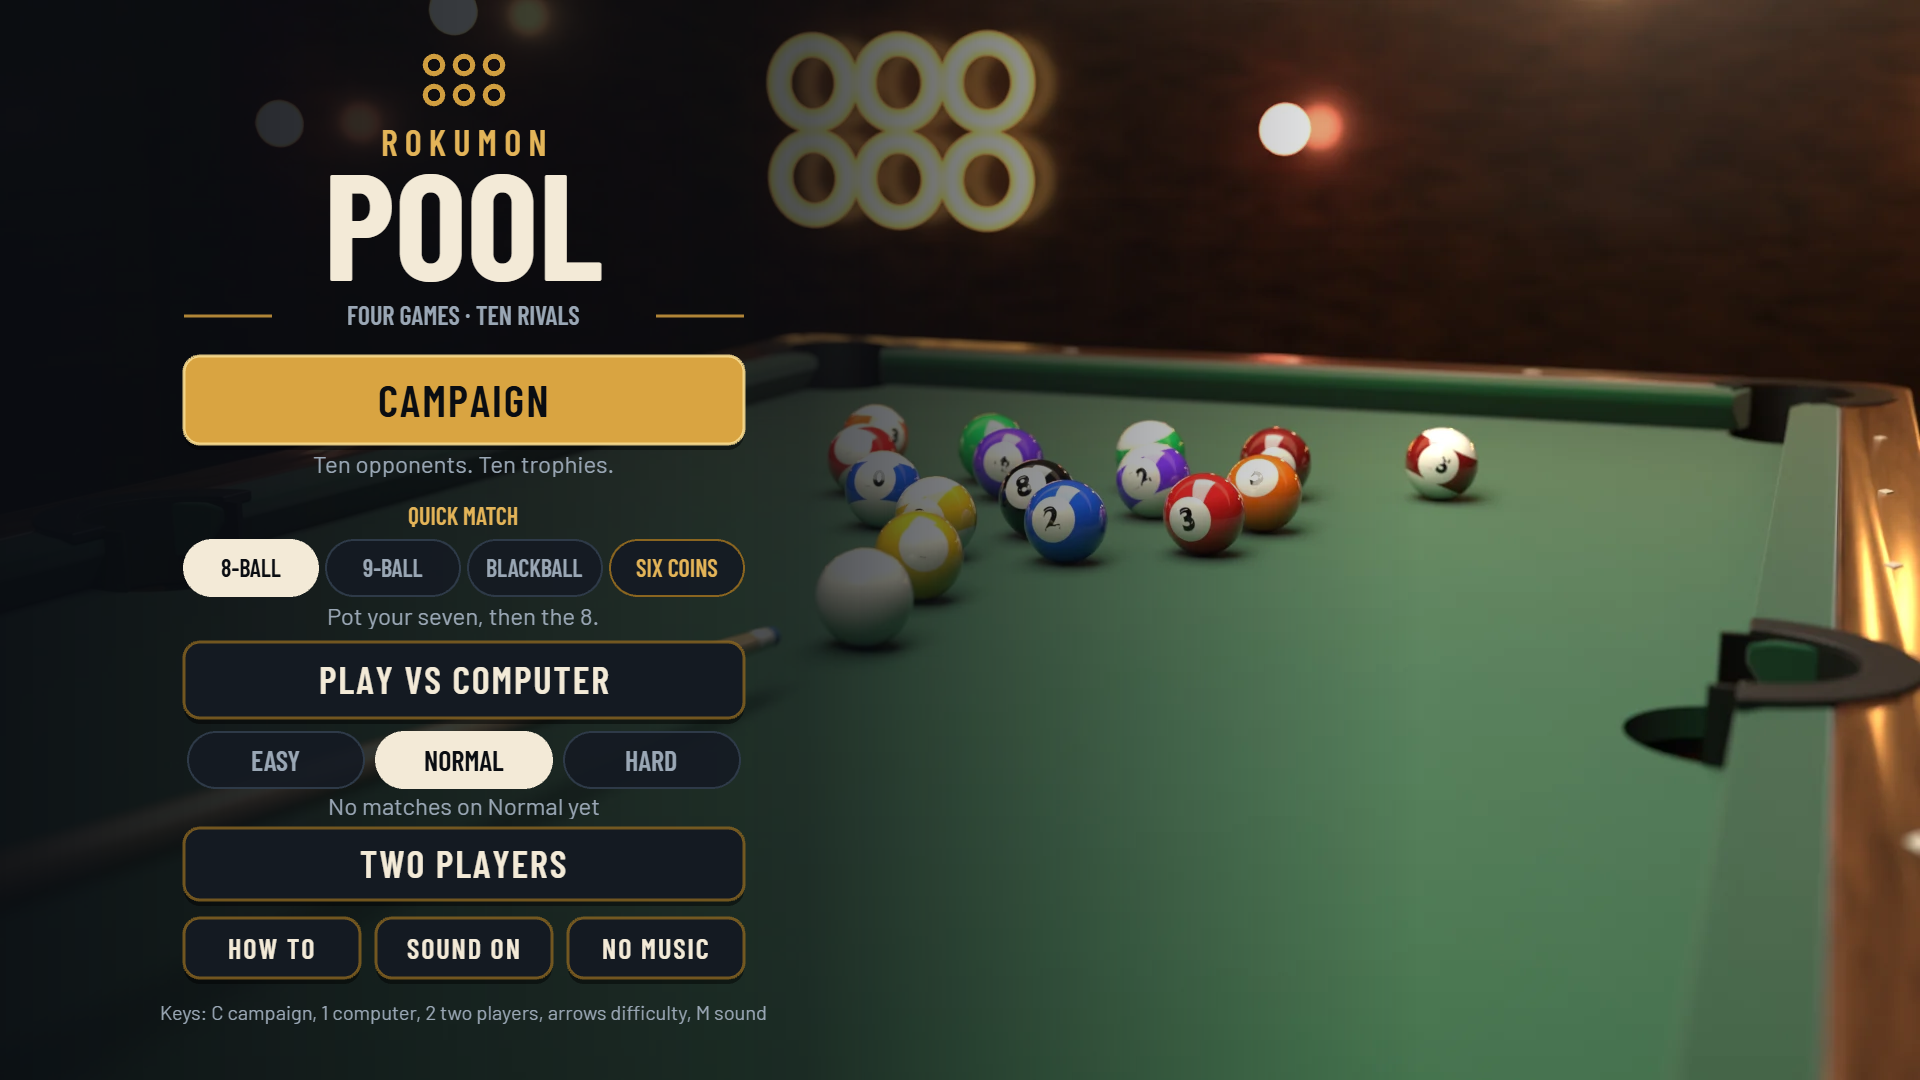
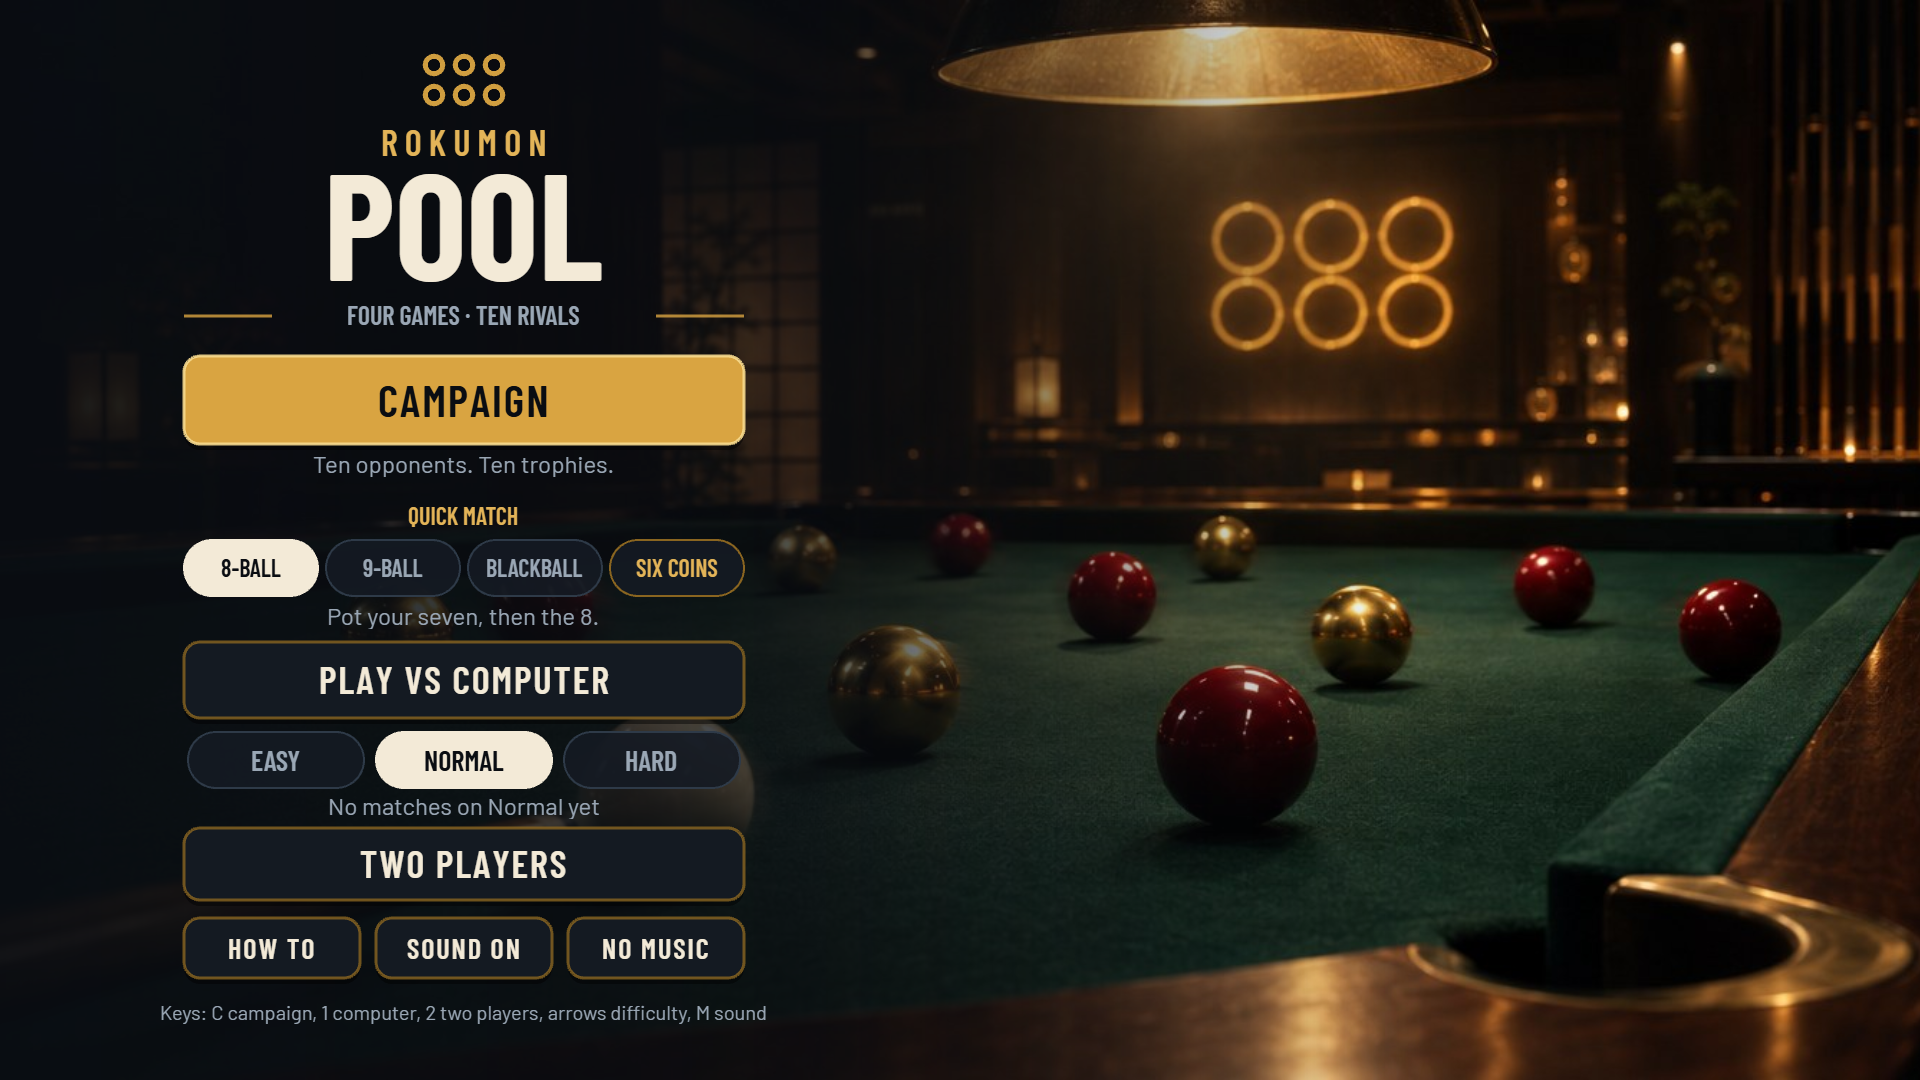
0.10.1: Higgsfield key art for the title screen and the hub
- Title-screen backdrop is now art/higgsfield/hero.png (as src/art/keyart.jpg).
- New hub cover and hero composed by scripts/make-banners.mjs, which gains
  plain (text-free) jobs and JPEG output.
- The Blender renders stay and still provide the in-game table.

diff --git a/src/systems/audio.js b/src/systems/audio.js
@@ -144,7 +144,83 @@ function syncMusic() {
   else music.pause();
 }
 
+// Charge-up: a live tone that follows the power gauge. It is built from two
+// detuned oscillators, so it has body, and a little filtered noise that opens
+// up with power, like a spring being wound. Pitch and loudness rise together
+// with the pull; a soft tick marks each quarter of the bar. It is generated,
+// not recorded, because a recorded clip cannot follow a handle the player is
+// moving by hand.
+let charge = null;
+let chargeTick = -1;
+
+function chargeStart() {
+  const c = ensure();
+  if (!c || muted || charge) return;
+  const t = c.currentTime;
+  const out = c.createGain();
+  out.gain.setValueAtTime(0.0001, t);
+  const lowpass = c.createBiquadFilter();
+  lowpass.type = "lowpass";
+  lowpass.frequency.value = 500;
+  lowpass.Q.value = 1.4;
+  const a = c.createOscillator();
+  const b = c.createOscillator();
+  a.type = "sawtooth";
+  b.type = "triangle";
+  a.connect(lowpass);
+  b.connect(lowpass);
+  const hiss = c.createBufferSource();
+  hiss.buffer = getNoise(c);
+  hiss.loop = true;
+  const hissFilter = c.createBiquadFilter();
+  hissFilter.type = "bandpass";
+  hissFilter.frequency.value = 1800;
+  hissFilter.Q.value = 0.7;
+  const hissGain = c.createGain();
+  hissGain.gain.value = 0;
+  hiss.connect(hissFilter).connect(hissGain).connect(out);
+  lowpass.connect(out);
+  out.connect(c.destination);
+  a.start(t);
+  b.start(t);
+  hiss.start(t);
+  charge = { c, out, lowpass, a, b, hiss, hissGain, hissFilter };
+  chargeTick = -1;
+}
+
+function chargeSet(power) {
+  if (!charge) return;
+  const { c, out, lowpass, a, b, hissGain, hissFilter } = charge;
+  const p = clamp01(power);
+  const t = c.currentTime;
+  // Smoothed: the handle moves in steps, the sound should not.
+  const glide = (param, value) => param.setTargetAtTime(value, t, 0.04);
+  glide(a.frequency, 95 + p * 330);
+  glide(b.frequency, 95 * 1.5 + p * 330 * 1.5);
+  glide(lowpass.frequency, 420 + p * 2400);
+  glide(out.gain, p < 0.02 ? 0.0001 : 0.025 + p * 0.1);
+  glide(hissGain.gain, p * p * 0.07);
+  glide(hissFilter.frequency, 1400 + p * 3200);
+  const quarter = Math.floor(p * 4 + 0.0001);
+  if (chargeTick >= 0 && quarter > chargeTick) tone({ from: 1500 + quarter * 220, to: 1100 + quarter * 220, duration: 0.05, gain: 0.05, type: "triangle" });
+  chargeTick = quarter;
+}
+
+function chargeStop() {
+  if (!charge) return;
+  const { c, out, a, b, hiss } = charge;
+  charge = null;
+  const t = c.currentTime;
+  // A short release so it never clicks, then everything is torn down.
+  out.gain.cancelScheduledValues(t);
+  out.gain.setTargetAtTime(0.0001, t, 0.03);
+  [a, b, hiss].forEach((node) => { try { node.stop(t + 0.18); } catch { /* already stopped */ } });
+}
+
 export const audio = {
+  chargeStart,
+  chargeSet,
+  chargeStop,
   // Call from a pointer or key gesture: starts the audio context, loads the
   // recorded effects and starts the music if it is switched on.
   unlock() {
@@ -155,6 +231,7 @@ export const audio = {
   get muted() { return muted; },
   setMuted(value) {
     muted = Boolean(value);
+    if (muted) chargeStop();
     try { localStorage.setItem(MUTE_KEY, muted ? "1" : "0"); } catch { /* per-viewer convenience only */ }
     syncMusic();
     return muted;

diff --git a/src/scenes/GameScene.js b/src/scenes/GameScene.js
@@ -109,7 +109,7 @@ export class GameScene extends Phaser.Scene {
     this.matter.world.on("collisionstart", (event) => this.handleCollisions(event));
 
     // Live ball textures belong to this match: free them when it ends.
-    this.events.once(Phaser.Scenes.Events.SHUTDOWN, () => this.balls.forEach((entry) => entry.ball.destroy()));
+    this.events.once(Phaser.Scenes.Events.SHUTDOWN, () => { audio.chargeStop(); this.balls.forEach((entry) => entry.ball.destroy()); });
 
     this.scene.launch("UI");
     hub.ready();
@@ -192,6 +192,7 @@ export class GameScene extends Phaser.Scene {
   // Drop a half-finished aim or power pull when the match pauses or the OS
   // cancels a touch: the release may never arrive.
   cancelDrag() {
+    audio.chargeStop();
     this.aimDrag = null;
     this.powerDrag = false;
     this.placeDrag = false;
@@ -203,6 +204,10 @@ export class GameScene extends Phaser.Scene {
   get isDragging() { return Boolean(this.aimDrag) || this.powerDrag; }
 
   update() {
+    // The charge-up sound follows the gauge for as long as the handle is held.
+    if (this.powerDrag && this.phase === PHASE.AIM) audio.chargeSet(this.power);
+    else audio.chargeStop();
+
     this.balls.forEach((entry) => {
       if (!entry.active) return;
       const { x, y } = entry.body.position;
@@ -436,6 +441,7 @@ export class GameScene extends Phaser.Scene {
       if (this.inPowerZone(p)) {
         this.powerDrag = true;
         this.power = this.powerFromY(p.worldY);
+        audio.chargeStart();
         return;
       }
       if (!this.inPlayZone(p)) return;

diff --git a/CHANGELOG.md b/CHANGELOG.md
@@ -4,6 +4,12 @@ All notable changes to this project should be documented here.
 
 ## Unreleased
 
+### 2026-11-10 key art (0.10.1)
+
+Changed
+
+- The title-screen backdrop and the hub cover and hero use new key art generated with Higgsfield (GPT Image 2.5): gold and crimson balls on the table under the six-ring crest. Sources are in `art/higgsfield/`; the Blender renders stay in `art/renders/` and still provide the in-game table.
+
 ### 2026-11-10 Six Coins (0.10.0)
 
 Added
